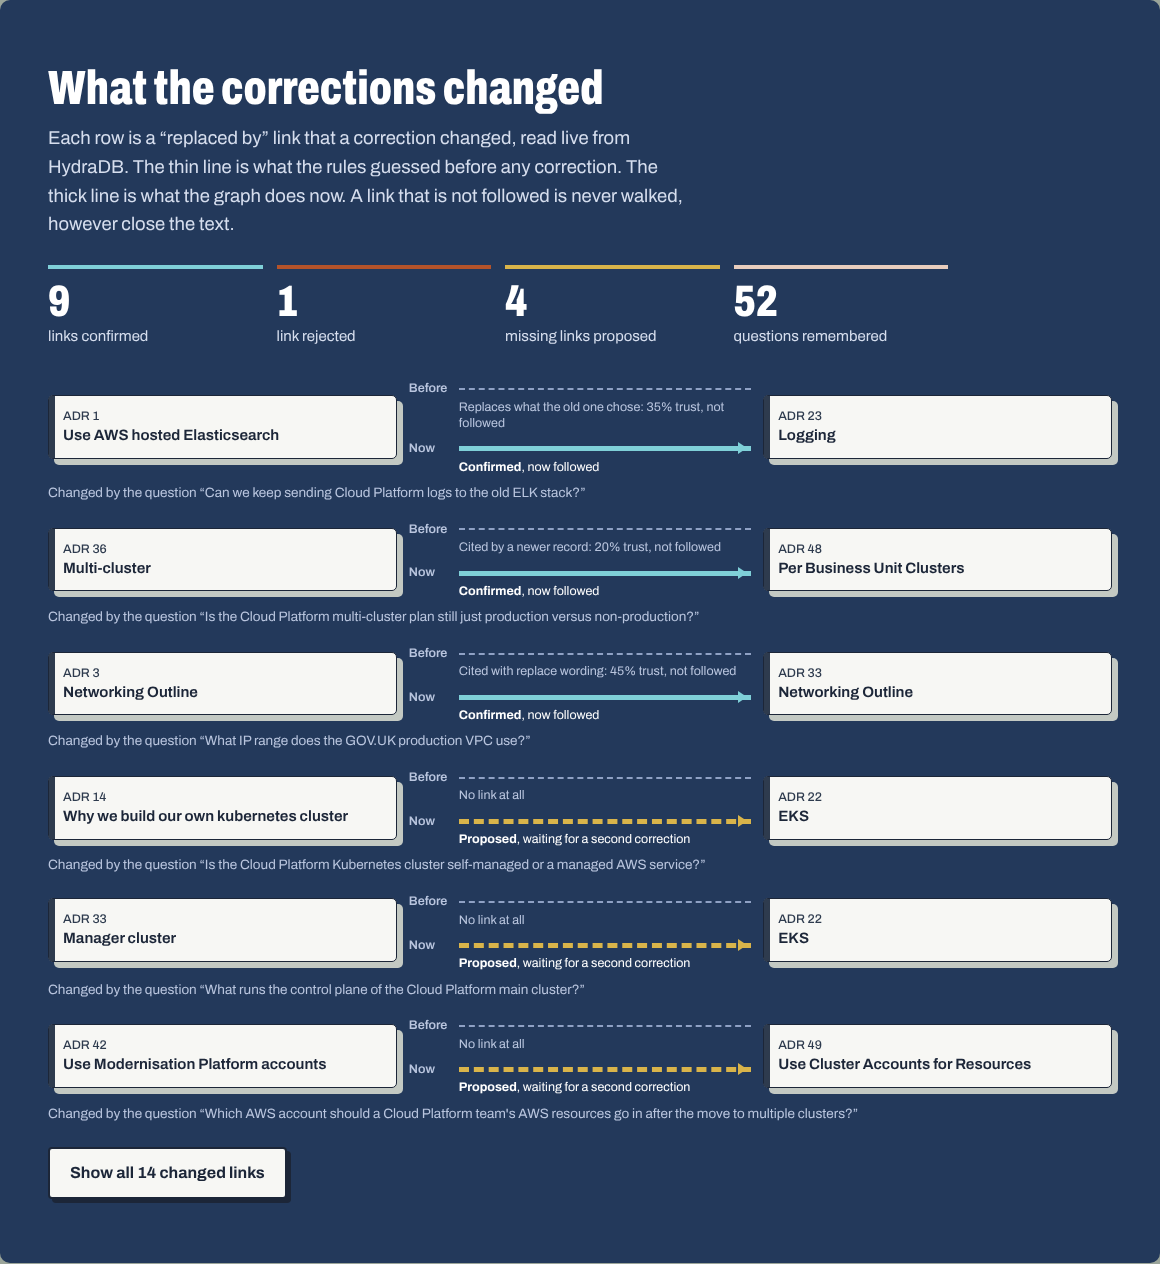
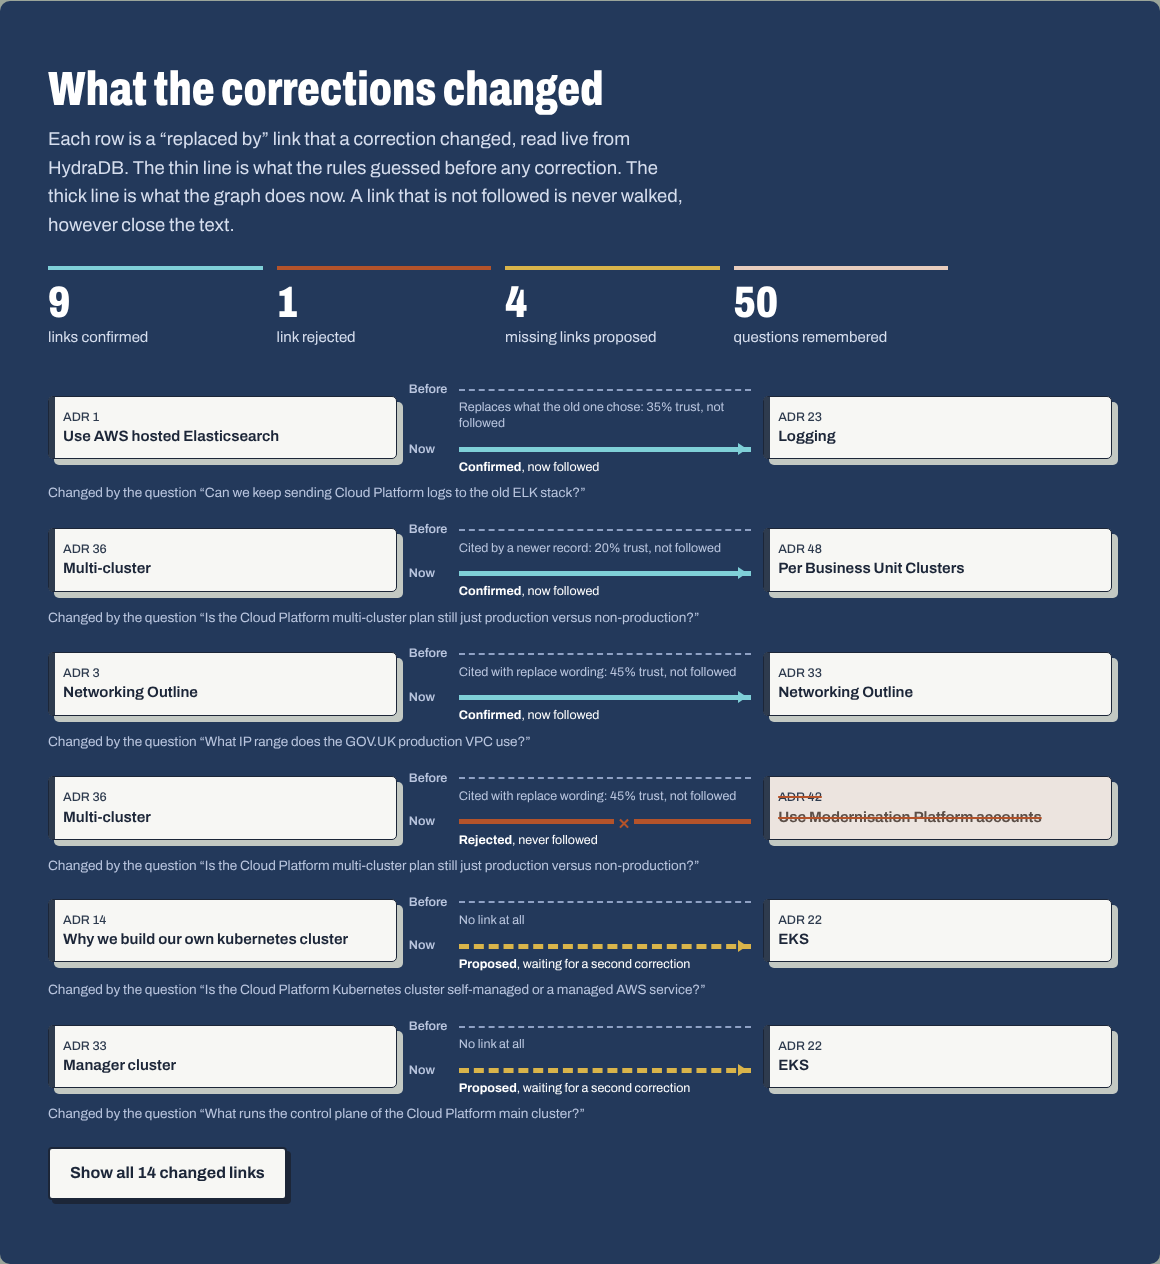
Ledger shows rejected links before proposed ones; refresh screenshots

diff --git a/app/graph.py b/app/graph.py
@@ -257,7 +257,7 @@ class DecisionGraph:
                             to_title=b["title"], project=a["project"], rule=r["rule"], state=r["state"],
                             before=RULE_PRIOR[r["rule"]] if r["rule"] != "learned" else None,
                             question=texts.get(r["by"])))
-        order = {"confirmed": 0, "pending": 1, "rejected": 2}
+        order = {"confirmed": 0, "rejected": 1, "pending": 2}
         out.sort(key=lambda x: (x["rule"] == "status-link", order[x["state"]], x["frm"]))
         return out
 
